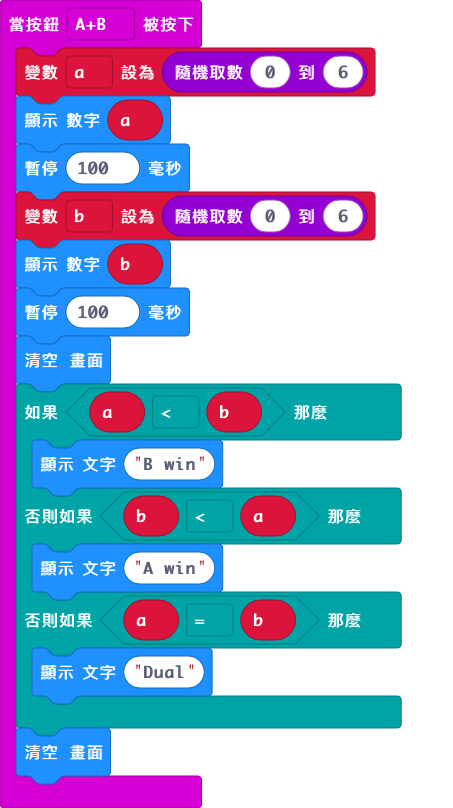
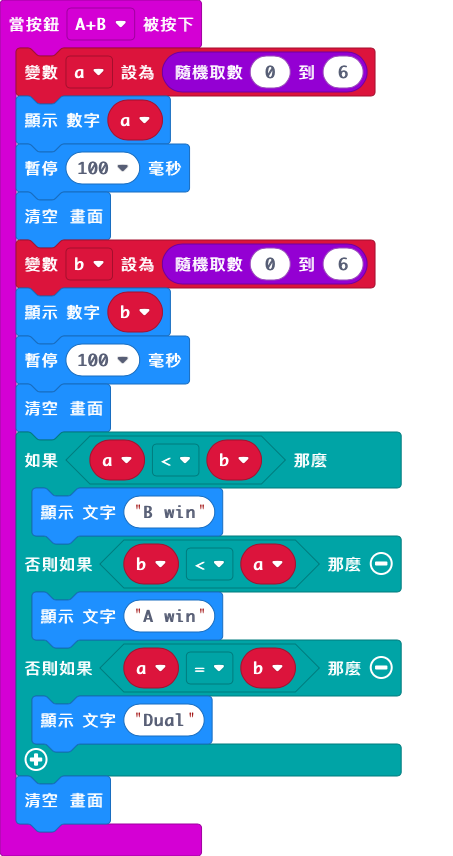
Update main.blocks, main.ts

diff --git a/main.ts b/main.ts
@@ -4,6 +4,7 @@ input.onButtonPressed(Button.AB, function () {
     a = randint(0, 6)
     basic.showNumber(a)
     basic.pause(100)
+    basic.clearScreen()
     b = randint(0, 6)
     basic.showNumber(b)
     basic.pause(100)
